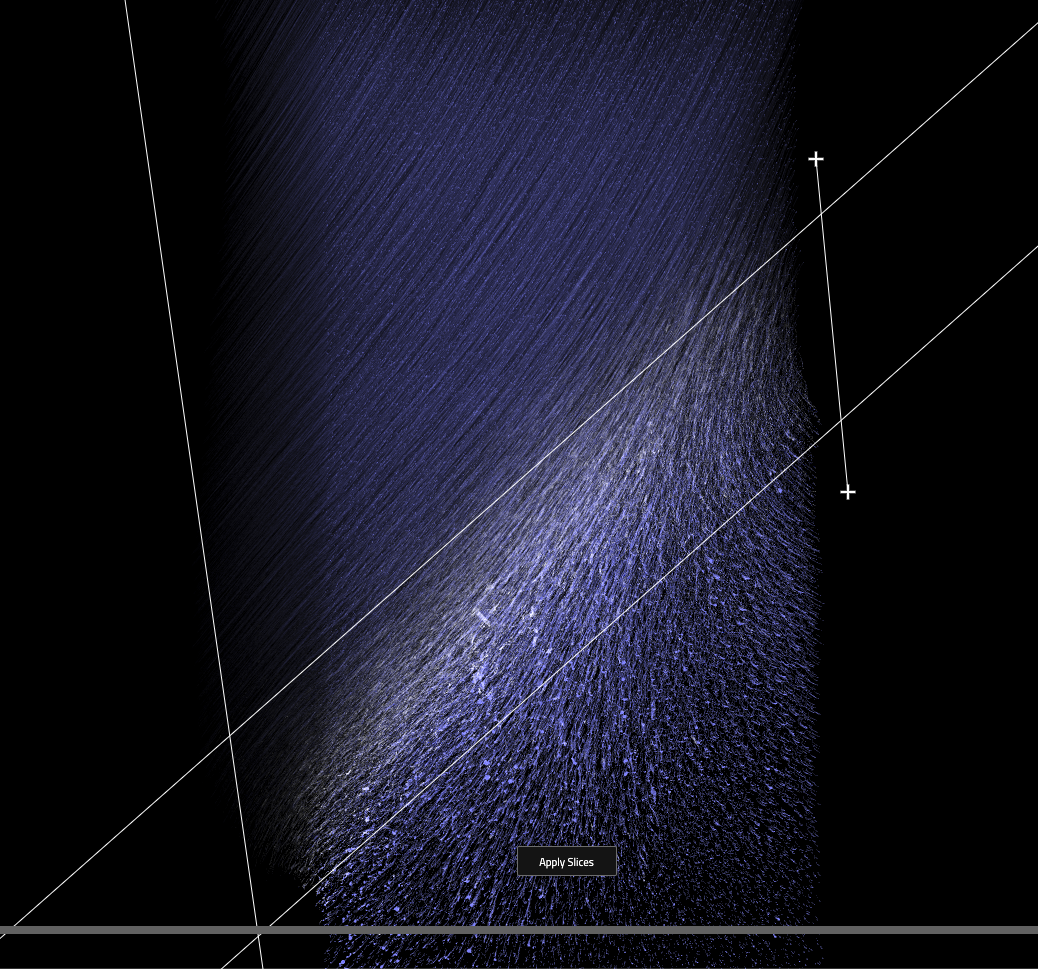
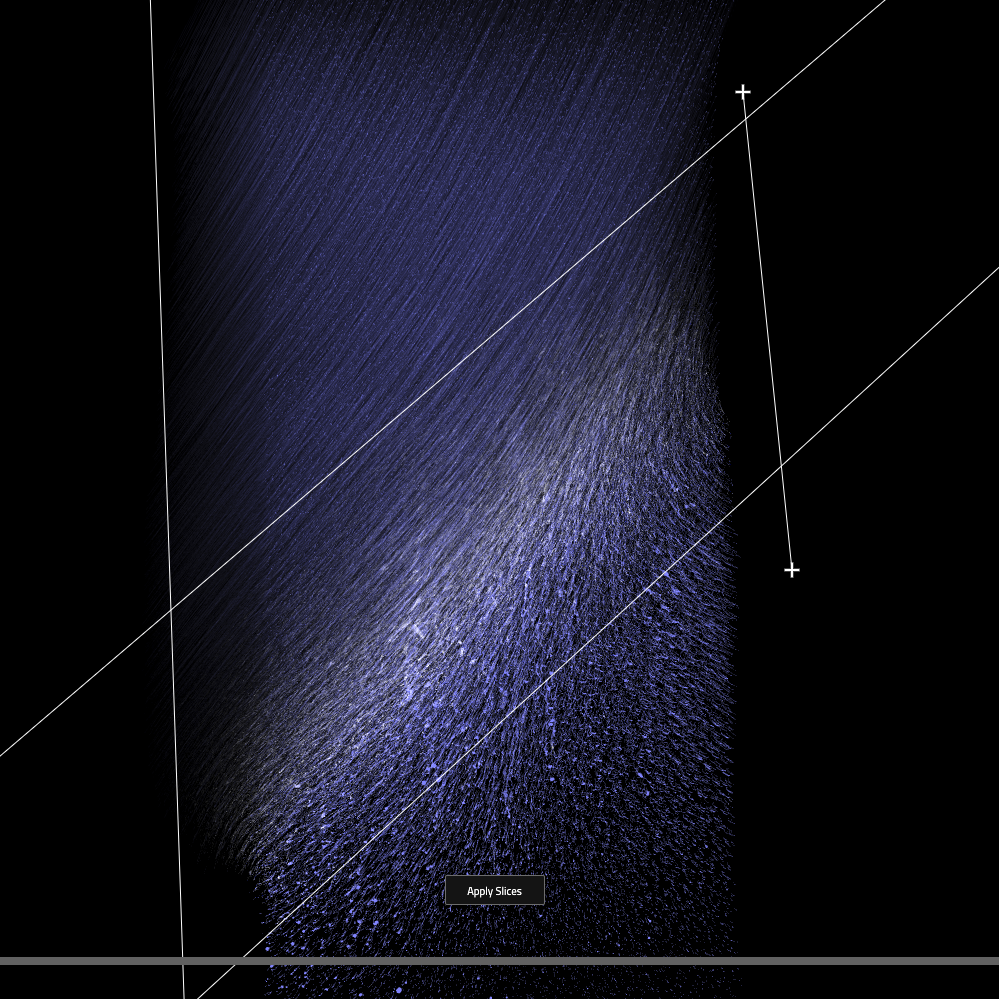
grvin content complete

diff --git a/src/components/work.js b/src/components/work.js
@@ -67,9 +67,9 @@ const GrvinContent = () => {
       <p>
         The granular geomechanics team at Caltech were working to understand patterns of failure in granular materials. They hoped to understand why 
         granular materials behave as they do, specifically, supporting force nonuniformly and breaking down in a characteristic 'shear band.' Further
-        understanding the physics in these granular samples would allow better materials to be engineered for applications like civil engineering. The
-        team had a lot of data but their ability to visualize and explore it was severely limited. Their current visualizations lacked interactivity, 
-        since rendering many grain surfaces can get computationally costly, and also suffered occlusion problems, where grains visibly obstruct each 
+        understanding the physics in these granular samples would allow better materials to be created for applications like civil engineering. The
+        team had a lot of data but their ability to visualize and explore it was severely limited. Their visualizations lacked interactivity, since 
+        rendering many grain surfaces can get computationally costly, and also suffered occlusion problems, where grains visibly obstruct each 
         other and any important patterns.
       </p>
       <img className="content-sm" src={`${imgDir}/old-vis.png`} alt=""/>
@@ -90,21 +90,19 @@ const GrvinContent = () => {
       </div>
       <h1>Final product:</h1>
       <p>
-        Yeah, but your scientists were so preoccupied with whether or not they could, they didn't stop to think if they 
-        should. This thing comes fully loaded. AM/FM radio, reclining bucket seats, and... power windows. Did he just 
-        throw my cat out of the window?
+        Our final design visualizes a flow field of grain movement, a vector field of forces between grains, and provides interactions to crop and 
+        select subsets of data. Displaying both visualizations side by side allows for easy reference between and pattern identification. Data can be
+        explored by slicing subsets of these large scale plots or by selecting sets of individual grain surfaces.
       </p>
       <img className="content-lg" src={`${imgDir}/sample-view.png`} alt=""/>
       <p>
-        I gave it a cold? I gave it a virus. A computer virus. My dad once told me, laugh and the world laughs with you, 
-        Cry, and I'll give you something to cry about you little bastard! Must go faster. I gave it a cold? I gave it a 
-        virus. A computer virus. What do they got in there? King Kong?
+        Once interesting patterns are identified and grain surfaces are selected, users can view animations of the grain surfaces, plot time series of 
+        the grains, and color map with additional data fields.
       </p>
       <img className="content-lg" src={`${imgDir}/multiples-view.png`} alt=""/>
       <p>
-        God help us, we're in the hands of engineers. Yeah, but John, if The Pirates of the Caribbean breaks down, the pirates
-        don't eat the tourists. Jaguar shark! So tell me - does it really exist? You're a very talented young man, with your own
-        clever thoughts and ideas. Do you need a manager?
+        All selection and slicing use 2d drawing interactions to maximize clarity and ease of use. Users draw the area they want directly on top 
+        of the visualization and then project into 3d space to select or crop.
       </p>
       <div className="content-lg col">
         <img className="two-col" src={`${imgDir}/crop-interaction.png`} alt=""/>
